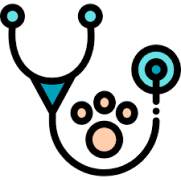
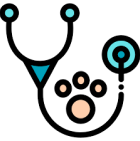
estilos en pag principal

diff --git a/src/pages/pagPrincipal.js b/src/pages/pagPrincipal.js
@@ -4,9 +4,9 @@ import { useState, useEffect } from "react";
 import petshop from "../imagenes/petshop.png";
 import peluqueria from "../imagenes/peluqueria.png";
 import atencionmedica from "../imagenes/atencionmedica.png";
-import nutrique from "../imagenes/nutrique.png";
-import comedero from "../imagenes/comedero.png";
-import balanced from "../imagenes/balanced.png";
+import maritasuares from "../imagenes/maritasuares.png";
+import fabiorodriguez from "../imagenes/fabiorodriguez.png";
+import susanacardozo from "../imagenes/susanacardozo.png";
 
 function PagPrincipal() {
   const [listaProductos, setListaProductos] = useState([]);
@@ -62,20 +62,20 @@ function PagPrincipal() {
             <h2>Nuestros servicios</h2>
           </div>
           <div className="container">
-            <div className="row tarjetaServicios">
-            <div className="members-container col-lg-3 m-3">
+            <div className="tarjetaServicios">
+            <div className=" col-lg-3 m-5">
           <div className="member-card">
             <img className="p-3" src={atencionmedica} alt="Miembro 1" />
             <h2 className="acomodarTitulos">Atencion Medica</h2>
           </div>
           </div>
-          <div className="members-container col-lg-3 m-3 ">
+          <div className="col-lg-3 m-5  ">
           <div className="member-card ">
-            <img className="p-3 imagenservicio" src={peluqueria} alt="Miembro 1" />
+            <img className="p-3"  src={peluqueria} alt="Miembro 1" />
             <h2 className="acomodarTitulos">Peluqueria</h2>
           </div>
           </div>
-          <div className="members-container col-lg-3 m-3">
+          <div className="col-lg-3 m-5">
           <div className="member-card">
             <img className="p-3" src={petshop} alt="Miembro 1" />
             <h2 className="acomodarTitulos">Pet-Shop</h2>
@@ -89,7 +89,7 @@ function PagPrincipal() {
       <section className="tamañoSection2">
         <div className="acomodarServicio">
           <div className="acomodarTitulos">
-            <h2>Destacados</h2>
+            <h2>Productos</h2>
           </div>
           <div className="container ProductosDestacados">
             <div className="row">
@@ -101,7 +101,7 @@ function PagPrincipal() {
         </div>
       </section>
 
-      <section className="acomodarImagen">
+      <section className="publicidad">
         <div>
           <img src="https://petplaza.com.do/img/cms/Royal-canin-2.jpg" alt="" />
         </div>
@@ -127,30 +127,37 @@ function PagPrincipal() {
             <h2>Nuestro Personal</h2>
           </div>
           <div className="container">
-            <div className="row ">
-              <div className="col-lg-3 col-md-3  estiloCards">
+            <div className="row contenedorcards">
+              <div className="col-lg-3   estiloCards">
                 <img
                   className="tamañoServicios"
-                  src="https://encrypted-tbn0.gstatic.com/images?q=tbn:ANd9GcTZJ6TurnBGajJc0zqdRUoWgMsedLGKC4J0N9CXsooSYYyG3-k3Y4MrSt8T4G34QBFS7vw&usqp=CAU"
+                  src={susanacardozo}
                   alt=""
                 />
-                <h4>Vet.Francisco Ruiz</h4>
+                <h3>Vet.Susana Diaz</h3>
+                <h5>Lunes a Viernes</h5>
+                <h6>9 a 14hs </h6>
               </div>
-              <div className="col-lg-3 col-md-3   estiloCards">
+              <div className="col-lg-3 estiloCards">
                 <img
                   className="tamañoServicios"
-                  src="https://encrypted-tbn0.gstatic.com/images?q=tbn:ANd9GcTZJ6TurnBGajJc0zqdRUoWgMsedLGKC4J0N9CXsooSYYyG3-k3Y4MrSt8T4G34QBFS7vw&usqp=CAU"
+                  src={fabiorodriguez}
                   alt=""
                 />
-                <h4>Vet.Luis paez</h4>
+                <h3>Vet.Fabio Lopez</h3>
+                <h5>Lunes a Viernes</h5>
+                <h6>17 a 22hs </h6>
               </div>
-              <div className="col-lg-3 col-md-3   estiloCards">
+              <div className="col-lg-3   estiloCards">
                 <img
                   className="tamañoServicios"
-                  src="https://encrypted-tbn0.gstatic.com/images?q=tbn:ANd9GcTZJ6TurnBGajJc0zqdRUoWgMsedLGKC4J0N9CXsooSYYyG3-k3Y4MrSt8T4G34QBFS7vw&usqp=CAU"
+                  src={maritasuares}
                   alt=""
                 />
-                <h4>Vet.Mirtha Zaez</h4>
+                <h3>Vet.Marita Suarez</h3>
+                <h5>Sabados y Domingo</h5>
+                <h6> 10 a 17hs </h6>
+
               </div>
             </div>
           </div>

diff --git a/src/App.css b/src/App.css
@@ -4,6 +4,7 @@
   *{
     margin: 0%;
     padding: 0%;
+    font-family:'Gill Sans', 'Gill Sans MT', Calibri, 'Trebuchet MS', sans-serif
   }
   .background {
   display: flex;
@@ -177,18 +178,24 @@ text-align: center;
   justify-content: center;
 }
 .tarjetaServicios{
-justify-content: space-between;
+display: flex;
+flex-direction: row;
+flex-wrap: wrap;
+justify-content: center;
 
 }
-.estiloCards{
-  border: 1px solid rgb(146, 18, 18);
-  margin: 20px;
-  padding: 30px;
-  display: flex;
-  flex-direction: column;
-  align-items: center;
-  text-align: center;
+.tarjetaServicios img{
+ height: 55px;
+ width: 55px;
+  
 }
+.servicios{
+  background-color: #464646;
+}
+.contenedorcards{
+  justify-content:space-evenly;
+}
+
 .TituloProducto{
   text-align: center;
 }
@@ -197,6 +204,36 @@ justify-content: space-between;
 }
 .TituloProducto h6{
   font-weight: 100;
+}
+.estiloCards{
+  border-radius: 10px;
+  box-shadow: 2px 2px 2px 2px rgba(0, 0, 0, 0.25);
+  border: solid 5px white;
+  margin-bottom: 40px;
+  margin-left: 1px;
+  height: 380px;
+
+}
+.estiloCards img{
+ width: 100%;
+ height: 70%;
+}
+.estiloCards h3{
+  text-align: center;
+  font-family: 'Gill Sans', 'Gill Sans MT', Calibri, 'Trebuchet MS', sans-serif;
+}
+.estiloCards h5{
+  text-align: center;
+  font-family: 'Gill Sans', 'Gill Sans MT', Calibri, 'Trebuchet MS', sans-serif;
+  color: #464646;
+}
+.estiloCards h6{
+ 
+  font-family: 'Gill Sans', 'Gill Sans MT', Calibri, 'Trebuchet MS', sans-serif;
+  text-align: center;
+  font-family: 'Gill Sans', 'Gill Sans MT', Calibri, 'Trebuchet MS', sans-serif;
+  color: #464646;
+  padding-bottom: 15px;
 }
 .tamañoSection3{
   background-image: url(./imagenes/fondocomentarios.png);
@@ -210,7 +247,8 @@ justify-content: space-between;
 .acomodarTitulos{
   display: flex;
   justify-content: center;
-  font-weight: 200;
+  font-weight: 300;
+  font-family:'Gill Sans', 'Gill Sans MT', Calibri, 'Trebuchet MS', sans-serif
 }
 .acomodarTitulos h2{
  font-weight: 400;
@@ -223,13 +261,28 @@ justify-content: space-between;
   font-style: oblique;
 
 }
+.publicidad{
+  display: flex;
+  justify-content: center;
+}
+@media screen and (max-width:1023px){
+  .publicidad{
+    display: none;
+  }
+}
 /* -------------------------------------CSS Cards ------------------------------------ */
+.ProductosDestacados{
+  justify-content: center;
+}
 .card {
   width: 300px;
-  background-color: #f2f2f2;
+  background-color: #ffffff;
   border-radius: 4px;
   padding: 10px;
   cursor: pointer;
+  box-shadow: 2px 2px 2px 2px rgba(0, 0, 0, 0.25);
+  margin-top: 50px;
+  
 }
 
 .card.expanded {
@@ -243,12 +296,12 @@ justify-content: space-between;
 .card-image img {
   width: 100%;
   max-height: 200px;
-  object-fit: cover;
+  
   border-radius: 4px;
 }
 
 .card-header {
-  background-color: #ccc;
+  background-color: #ffffff;
   padding: 5px;
 }
 
